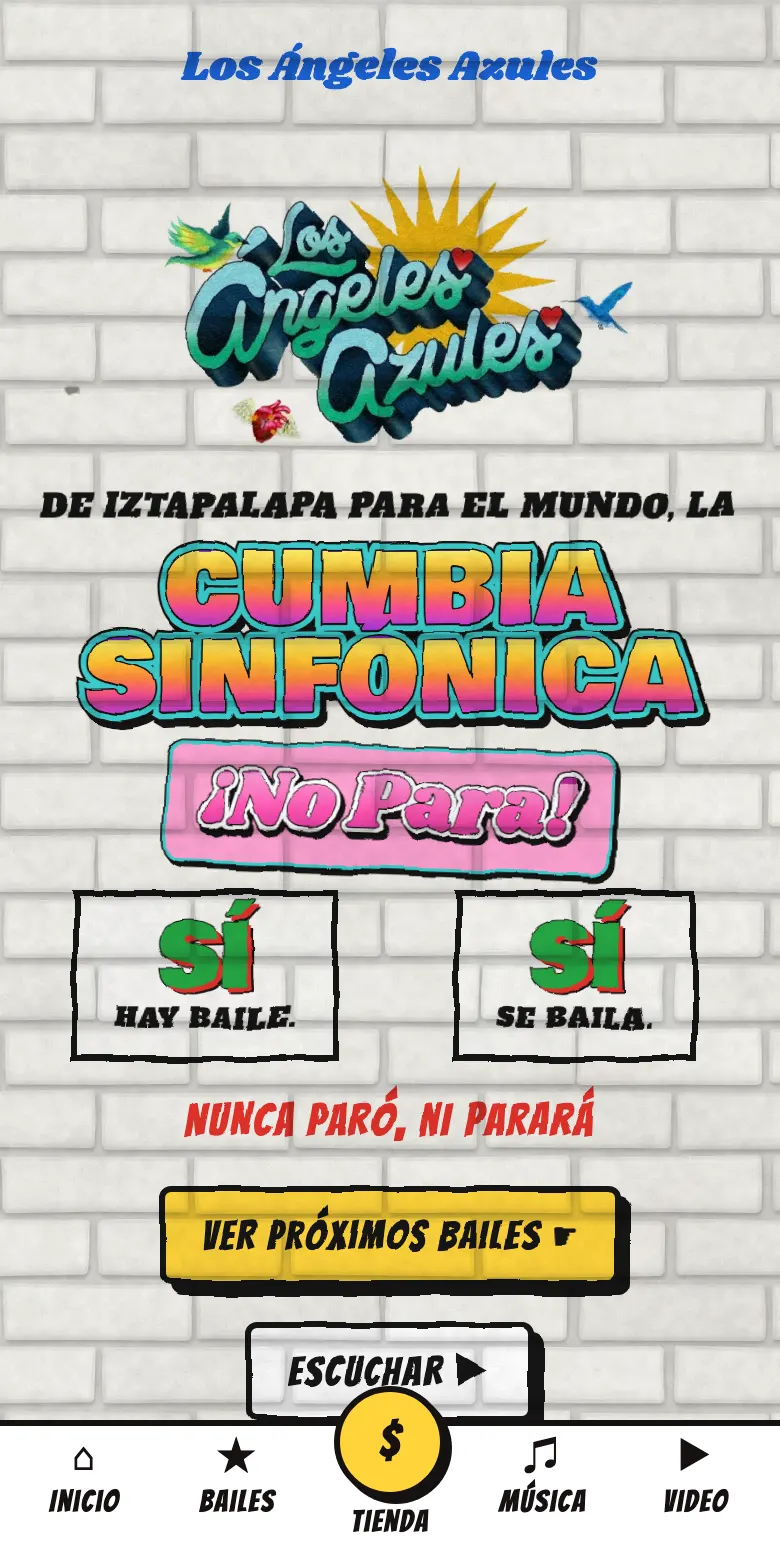
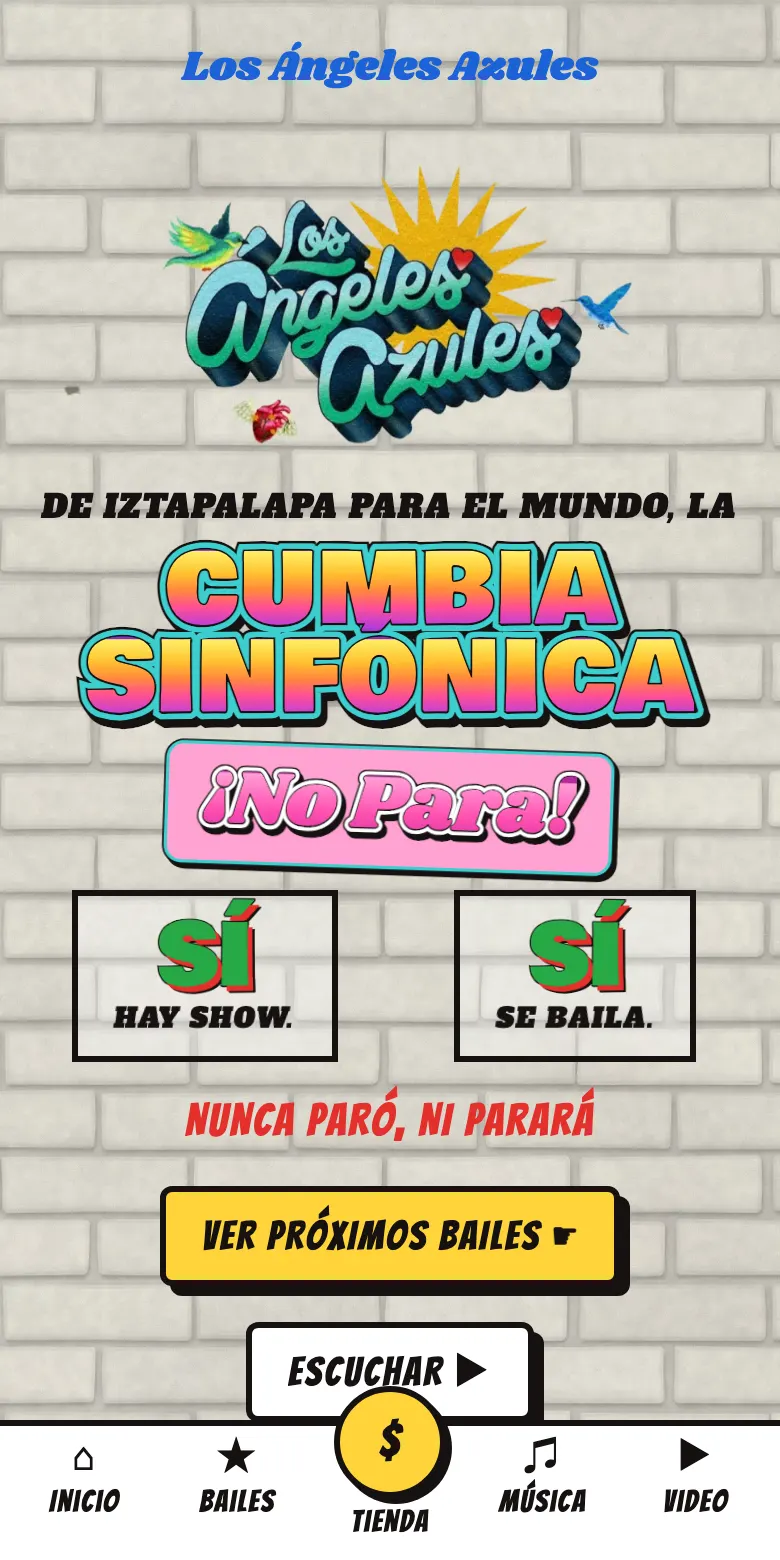
Propuesta B: "SÍ hay show" en lugar de "SÍ hay baile"

diff --git a/propuesta/barda-blanca.html b/propuesta/barda-blanca.html
@@ -251,7 +251,7 @@ section{position:relative;padding:clamp(56px,8vw,110px) 0}
     <p class="serif">De Iztapalapa para el mundo, la</p>
     <p class="rotulo grande" aria-hidden="true">Cumbia <br class="br-m">Sinfónica</p>
     <div class="fila">
-      <div class="caja"><span class="no">SÍ</span><small>hay baile.</small></div>
+      <div class="caja"><span class="no">SÍ</span><small>hay show.</small></div>
       <div class="banda"><p class="rotulo script">¡No Para!</p></div>
       <div class="caja"><span class="no">SÍ</span><small>se baila.</small></div>
     </div>
